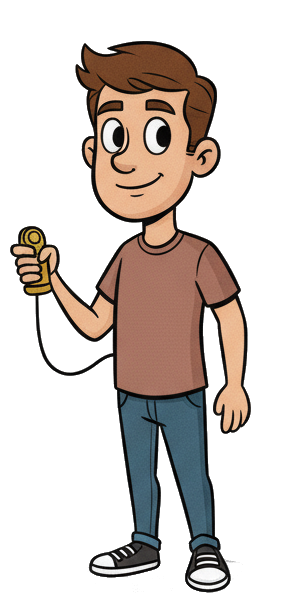
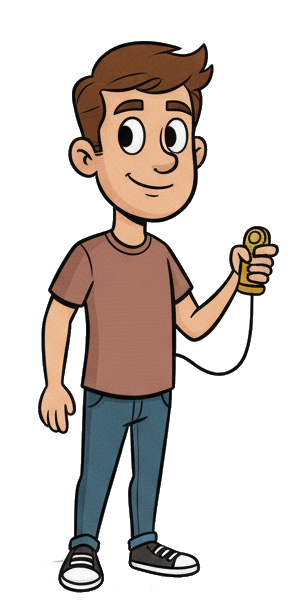
Sample 8: Image of the contestant speaking.

diff --git a/sample8_forbiddenwords.html b/sample8_forbiddenwords.html
@@ -281,18 +281,19 @@
                         isAudioPlaying = false;
                         playNextChunk();
                     }
+                    contestantSpeaking();
                     audio.play();
                 }
             }
 
-            function refereeSpeaking(duration) {
+            function refereeSpeaking() {
                 const refereeImg = document.getElementById('referee-img');
                 const originalSrc = '/forbiddenwords/referee.png';
                 const speakingSrc = '/forbiddenwords/referee_openmouth.png';
 
-                if (!refereeImg) return;
+                if (!refereeImg) return null;
 
-                const interval = 150;
+                const interval = 120;
                 let isSpeaking = true;
                 refereeImg.src = speakingSrc;
 
@@ -301,10 +302,25 @@
                     refereeImg.src = isSpeaking ? speakingSrc : originalSrc;
                 }, interval);
 
+                return animationInterval;
+            }
+
+            function contestantSpeaking() {
+                const contestantImg = document.getElementById('contestant2-img');
+                const originalSrc = '/forbiddenwords/contestant2.png';
+                const speakingSrc = '/forbiddenwords/contestant2_openmouth.png';
+
+                if (!contestantImg) return null;
+
                 setTimeout(() => {
-                    clearInterval(animationInterval);
-                    refereeImg.src = originalSrc;
-                }, duration);
+                    // Open mouth
+                contestantImg.src = speakingSrc;
+                }, 100);
+
+                setTimeout(() => {
+                    // Close mouth
+                    contestantImg.src = originalSrc;
+                }, 300);
             }
 
     </script>
@@ -312,6 +328,7 @@
 </head>
 <body class="bg-slate-900 text-white flex items-center justify-center min-h-screen p-4">
     <img id="referee-img" src="/forbiddenwords/referee.png" class="hidden absolute left-8 top-1/2 -translate-y-1/2 h-96">
+    <img id="contestant2-img" src="/forbiddenwords/contestant2.png" class="hidden absolute right-8 top-1/2 -translate-y-1/2 h-96">
     <div class="w-full max-w-2xl mx-auto text-center">
         
         <header class="mb-8">
@@ -397,16 +414,26 @@
         let timeLeft;
 
         function refereeSpeak(text, callback) {
-            // Estimate speech duration and animate referee
-            const words = text.split(' ');
-            const duration = words.length * 333; // Approx. 3 words per second
-            refereeSpeaking(duration);
-
             console.log(text);
             const utterance = new SpeechSynthesisUtterance(text);
             utterance.rate = 0.9;
             utterance.pitch = 1.1;
-            utterance.onend = callback;
+            
+            const animationInterval = refereeSpeaking();
+
+            utterance.onend = () => {
+                if (animationInterval) {
+                    clearInterval(animationInterval);
+                    const refereeImg = document.getElementById('referee-img');
+                    if (refereeImg) {
+                        refereeImg.src = '/forbiddenwords/referee.png';
+                    }
+                }
+                if (callback) {
+                    callback();
+                }
+            };
+
             speechSynthesis.speak(utterance);
         }
 
@@ -441,7 +468,18 @@
                             wordEl.className = 'bg-slate-700 text-red-400 font-semibold py-2 px-4 rounded-lg animate-grow';
                             wordEl.textContent = word;
                             forbiddenWordsList.appendChild(wordEl);
-                            refereeSpeak(word);
+                            
+                            let callback = null;
+                            if (index === gameData.forbidden.length - 1) {
+                                // This is the last forbidden word.
+                                callback = () => {
+                                    const contestantImg = document.getElementById('contestant2-img');
+                                    if (contestantImg) {
+                                        contestantImg.classList.remove('hidden');
+                                    }
+                                };
+                            }
+                            refereeSpeak(word, callback);
                         }, index * 800);
                     });
 
